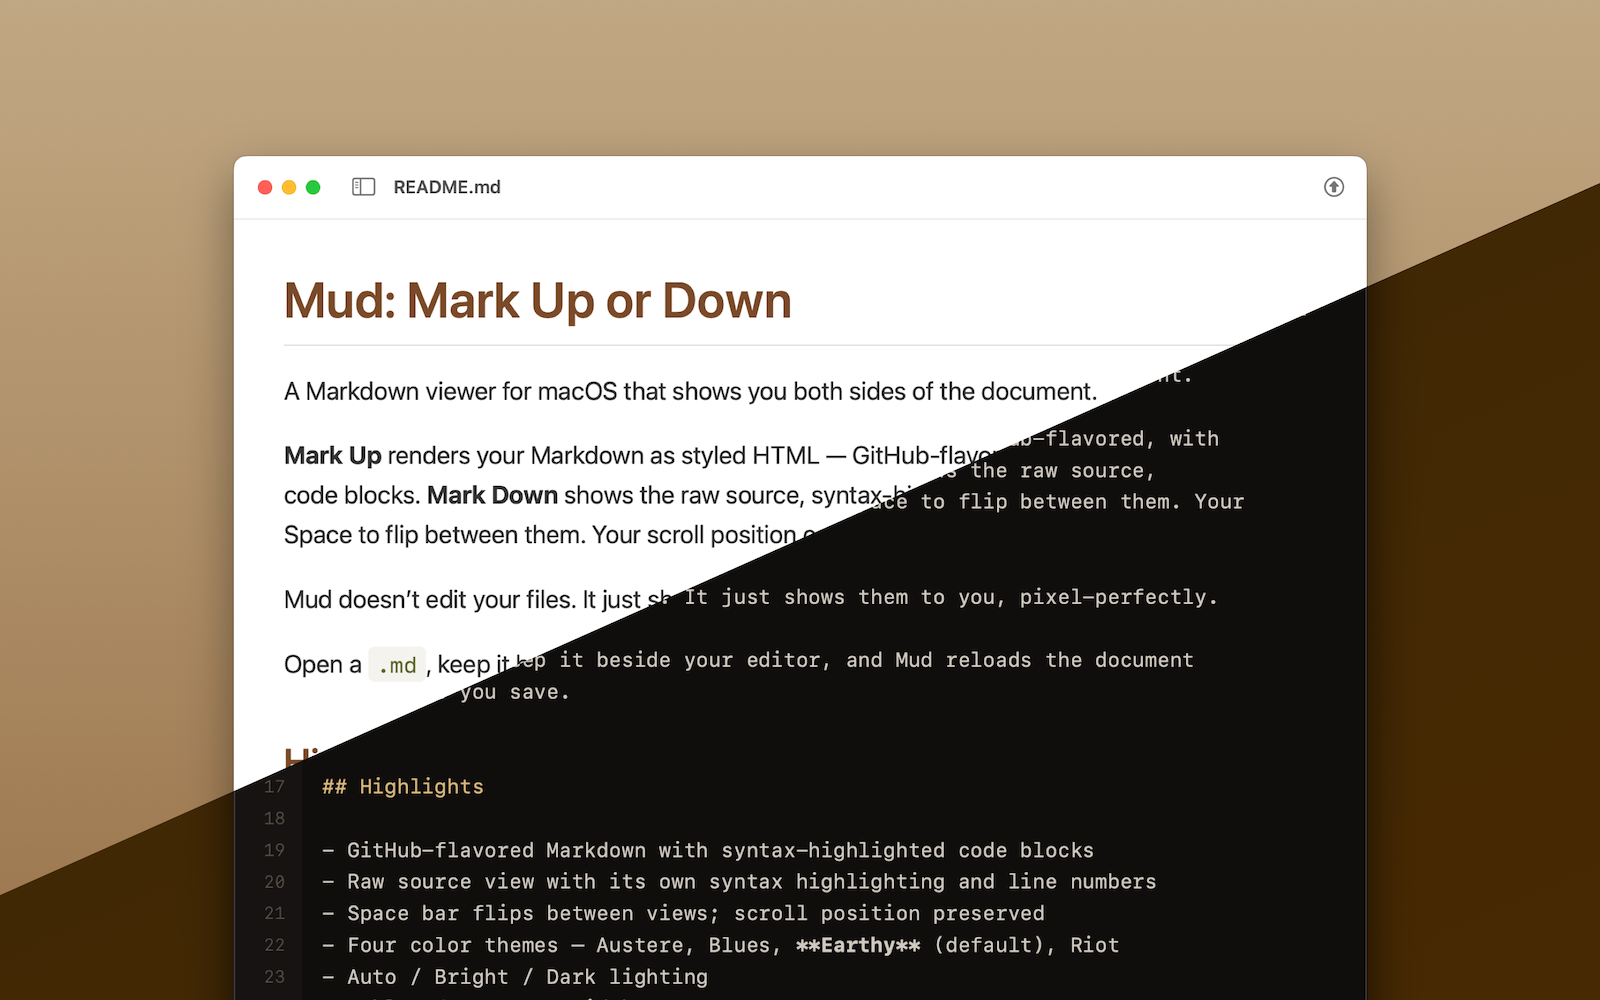
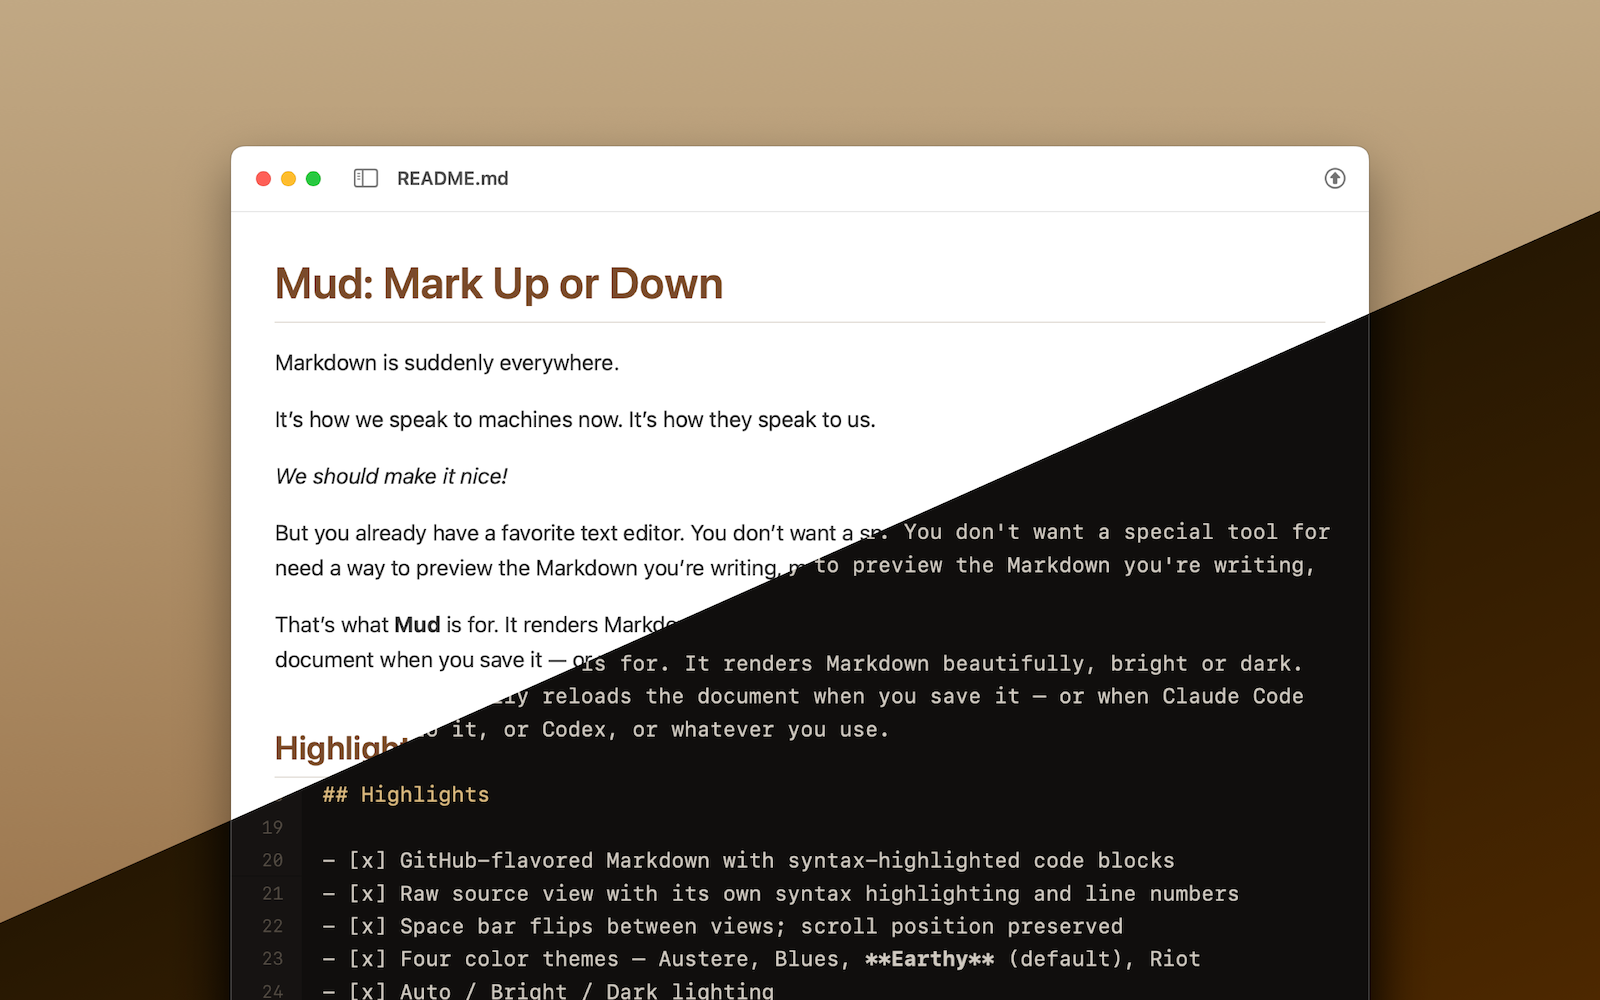
Site: added screenshot, revised copy, created a basic privacy policy.
AppStoreConnect insists on the privacy policy.

diff --git a/Site/index.html b/Site/index.html
@@ -59,7 +59,7 @@
 }
 
 html {
-    font-size: 16px;
+    font-size: 20px;
     -webkit-text-size-adjust: 100%;
     overscroll-behavior-x: none;
 }
@@ -180,9 +180,9 @@ body *:first-child {
 
 .mud-screenshot {
   display: block;
-  border-radius: 12px;
-  box-shadow: 5px 5px 0 0 #401A0033;
-  margin: 1em 0 3em;
+  border-radius: 0.15em;
+  box-shadow: 0 0 0 1px #401A0099;
+  margin: 1em 0;
 }
 
 /* Typography */
@@ -345,71 +345,62 @@ img {
     max-width: 100%;
     height: auto;
 }
+
+/* Footer */
+footer {
+    padding: 3rem 0;
+    text-align: center;
+    font-size: 0.75em;
+    color: var(--blockquote-color);
+}
+
+/* Mobile */
+@media (max-width: 600px) {
+    html {
+        font-size: 17px;
+    }
+    .up-mode-output {
+        padding: 1.25em;
+    }
+}
 </style>
 </head>
 <body>
     <article class="up-mode-output">
       <h1 id="mud-mark-up-or-down">Mud: Mark Up or Down</h1>
 
-      <p>
-        Markdown is suddenly everywhere. It's how we speak to machines now.
-        It's how they speak to us.
-      </p>
+      <p>Markdown is suddenly everywhere.</p>
+      <p>It’s how we speak to machines now. It’s how they speak to us.</p>
+      <p><em>We should make it nice!</em></p>
 
-      <p>
-        <em>We should make it nice!</em>
-      </p>
-
-      <p>
-        But you already have a favorite text editor.
-        You don't want a special tool for writing Markdown.
-        You just need a way to preview the Markdown you're writing, marked up.
-      </p>
-
-      <p>
-        That's what Mud is for. It renders Markdown beautifully, bright or dark.
-        It automatically reloads the document when you save it —
-        or when Claude Code writes to it, or Codex, or whatever you use.
-      </p>
-
-      <p>
-        <img
-          src="mud-ss-01.png"
-          class="mud-screenshot"
-          alt="The Mud app, showing Mark Up and Mark Down modes"
-        />
-      </p>
-
-      <p>
-        Mud can show you both sides of the document:
-        <ul>
-          <li>
-            <strong>Mark Up</strong> renders your Markdown as styled HTML —
-            GitHub-flavored, with syntax-highlighted code.
-          </li>
-          <li>
-            <strong>Mark Down</strong> shows the raw source with line numbers.
-          </li>
-        </ul>
-        Hit Space to flip between them. Your scroll position carries over.
-      <p>
-
-      <p>
-        Mud is a Mac-assed Mac app with excellent command-line tooling.
-      </p>
-
-      <p>
-        It's free and it's open source.
-      </p>
-
-      <p>
-        It does one thing — it marks up Markdown! — and it does it really,
-        really well.
-      </p>
+      <p>But you already have a favorite text editor. You don’t need a special
+      tool for writing Markdown. You just need a way to preview the Markdown
+      you’re writing, marked up.</p>
+      <p>That’s what <strong>Mud</strong> is for. It renders Markdown
+      beautifully, bright or dark. It automatically reloads the document when
+      you save it — or when Claude Code writes to it, or Codex,
+      or whatever you use.</p>
+      <p><img
+        src="mud-ss-01.png"
+        class="mud-screenshot"
+        alt="The Mud app, showing Mark Up and Mark Down modes"
+      /></p>
+      <p>Mud shows you both sides of every document:</p>
+      <ul>
+      <li><strong>Mark Up</strong> renders your Markdown as styled HTML — GitHub-flavored, with
+      syntax-highlighted code.
+      </li>
+      <li><strong>Mark Down</strong> shows the raw source with line numbers.
+      </li>
+      </ul>
+      <p>Hit Space to flip between them. Your scroll position carries over.</p>
+      <p>Mud is a Mac-assed Mac app with excellent command-line tooling.
+      It’s free and it’s open source.</p>
+      <p>It does one thing — it marks up Markdown! — and it does it really well.</p>
 
       <h2 id="documents">Gimme</h2>
       <p>
-        <a href="https://github.com/joseph/mud">Get Mud.app</a> at GitHub.
+        <a href="https://github.com/joseph/mud">Download Mud.app</a> at GitHub.
       </p>
       <h2 id="highlights">Highlights</h2>
       <ul>
@@ -448,5 +439,6 @@ mud -u --theme riot file.md    <span class="hljs-comment"># Pick a theme</span>
         See <a href="https://github.com/joseph/mud/blob/main/Doc/LICENSE.md">Doc/LICENSE.md</a>.
       </p>
     </article>
+    <footer>© 2026 <a href="https://josephpearson.org">Joseph Pearson</a></footer>
 </body>
 </html>

diff --git a/README.md b/README.md
@@ -1,8 +1,9 @@
 Mud: Mark Up or Down
 ===============================================================================
 
-Markdown is suddenly everywhere. It's how we speak to machines now. It's how
-they speak to us.
+Markdown is suddenly everywhere.
+
+It's how we speak to machines now. It's how they speak to us.
 
 *We should make it nice!*
 
@@ -10,14 +11,14 @@ But you already have a favorite text editor. You don't want a special tool for
 writing Markdown. You just need a way to preview the Markdown you're writing,
 marked up.
 
-That's what Mud is for. It renders Markdown beautifully, bright or dark. It
-automatically reloads the document when you save it — or when Claude Code
+That's what **Mud** is for. It renders Markdown beautifully, bright or dark.
+It automatically reloads the document when you save it — or when Claude Code
 writes to it, or Codex, or whatever you use.
 
 ![The Mud app, showing Mark Up and Mark Down
 modes](https://apps.josephpearson.org/mud/mud-ss-01.png)
 
-Mud can show you both sides of the document:
+Mud shows you both sides of every document:
 
 - **Mark Up** renders your Markdown as styled HTML — GitHub-flavored, with
   syntax-highlighted code.
@@ -26,10 +27,9 @@ Mud can show you both sides of the document:
 Hit Space to flip between them. Your scroll position carries over.
 
 Mud is a Mac-assed Mac app with excellent command-line tooling.
-
 It's free and it's open source.
 
-It does one thing — it marks up Markdown! — and it does it really, really well.
+It does one thing — it marks up Markdown! — and it does it really well.
 
 
 ## Highlights

diff --git a/Site/privacy-policy.md b/Site/privacy-policy.md
@@ -1,0 +1,14 @@
+# Privacy Policy
+
+
+## Applicability
+
+This privacy policy applies to the following apps published by Joseph Pearson:
+
+* Mud: Mark Up or Down
+
+
+## Statement
+
+The app does not collect any user data. The developer cannot view any data
+about you, the user, and cannot sell or share any of your personal information.
